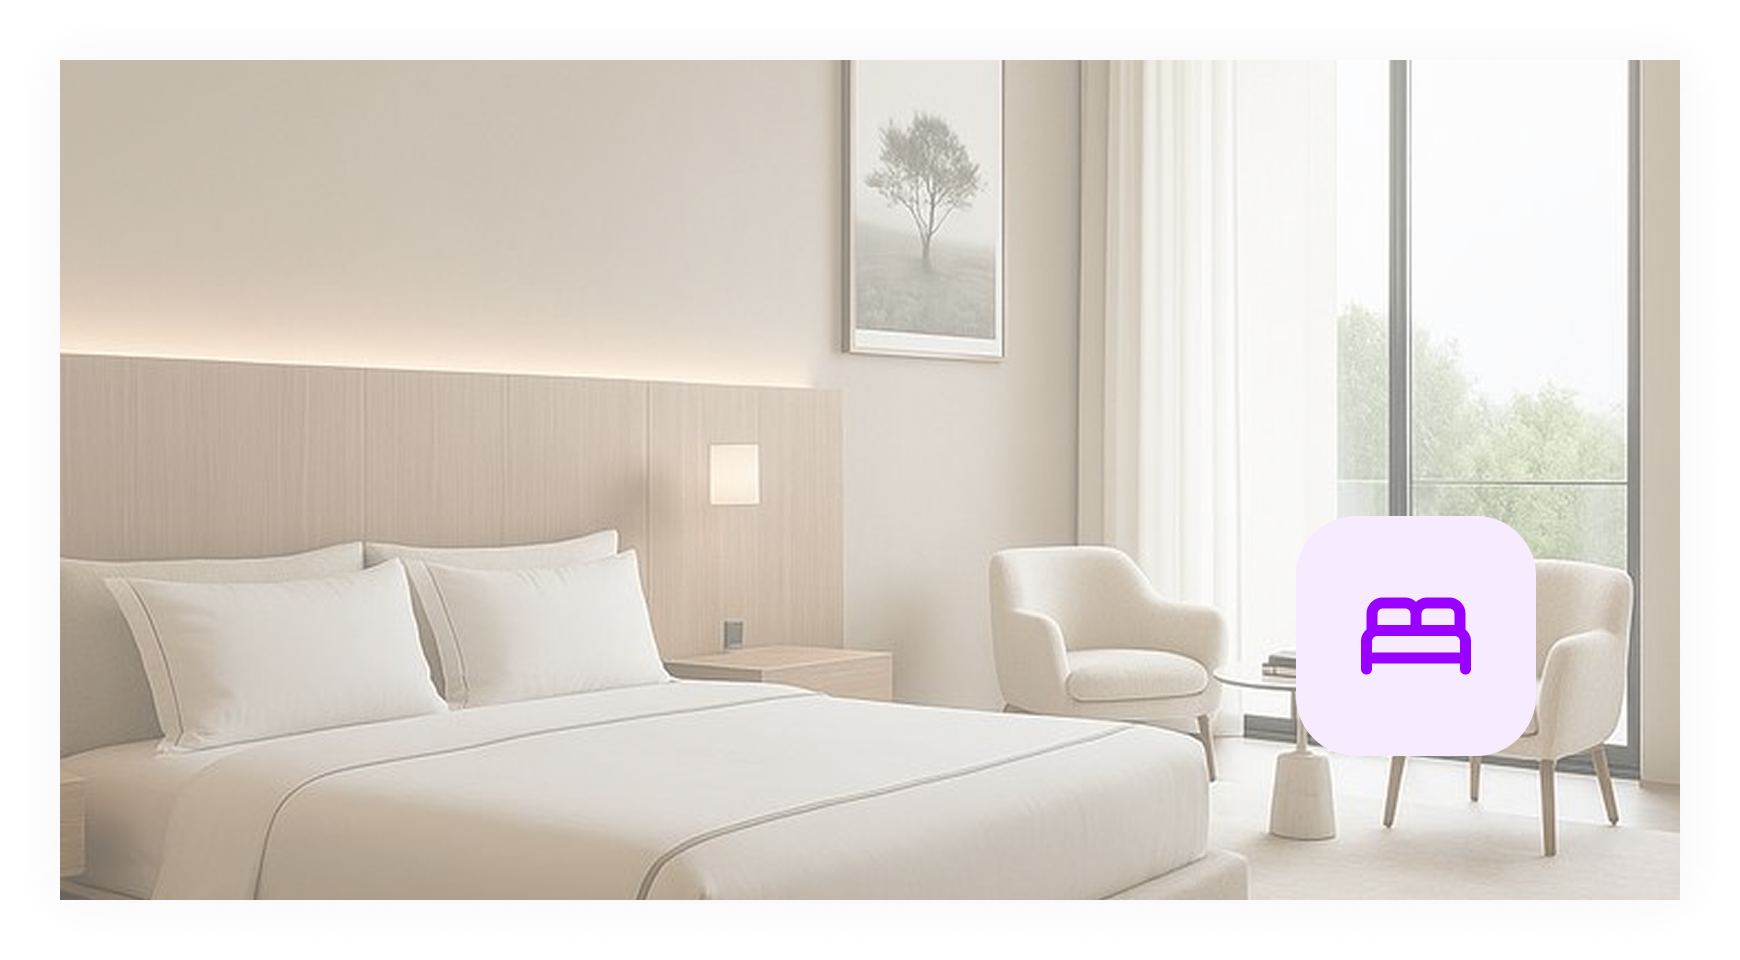
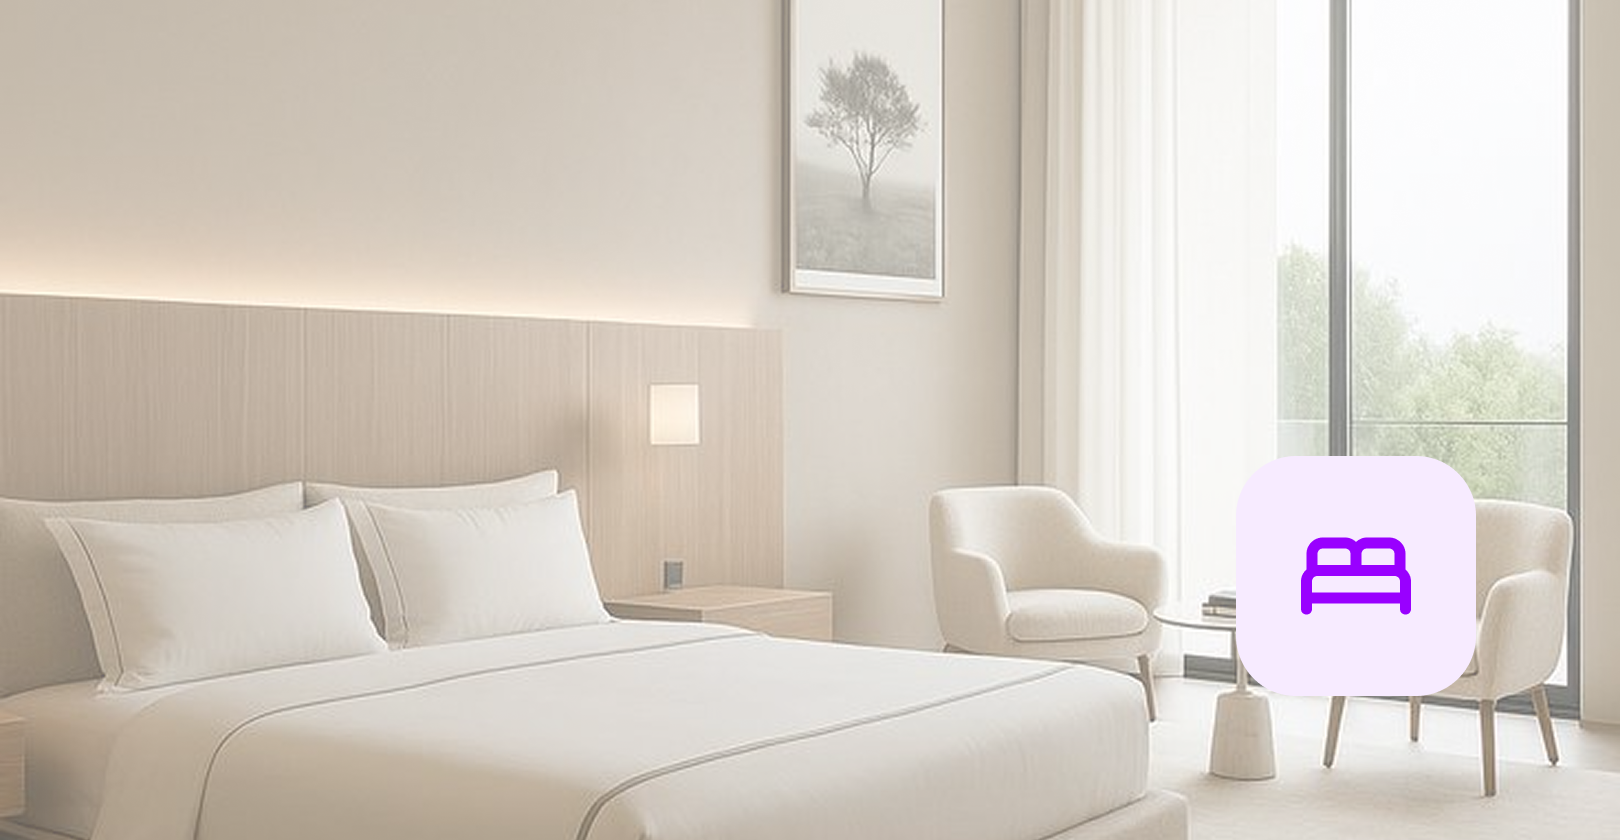
feat: edit css error

diff --git a/css/home.css b/css/home.css
@@ -260,6 +260,7 @@
     padding: 0;
     text-decoration: none;
     background-color: red;
+    aspect-ratio: 27 / 14;
 }
 
 .category-image {
